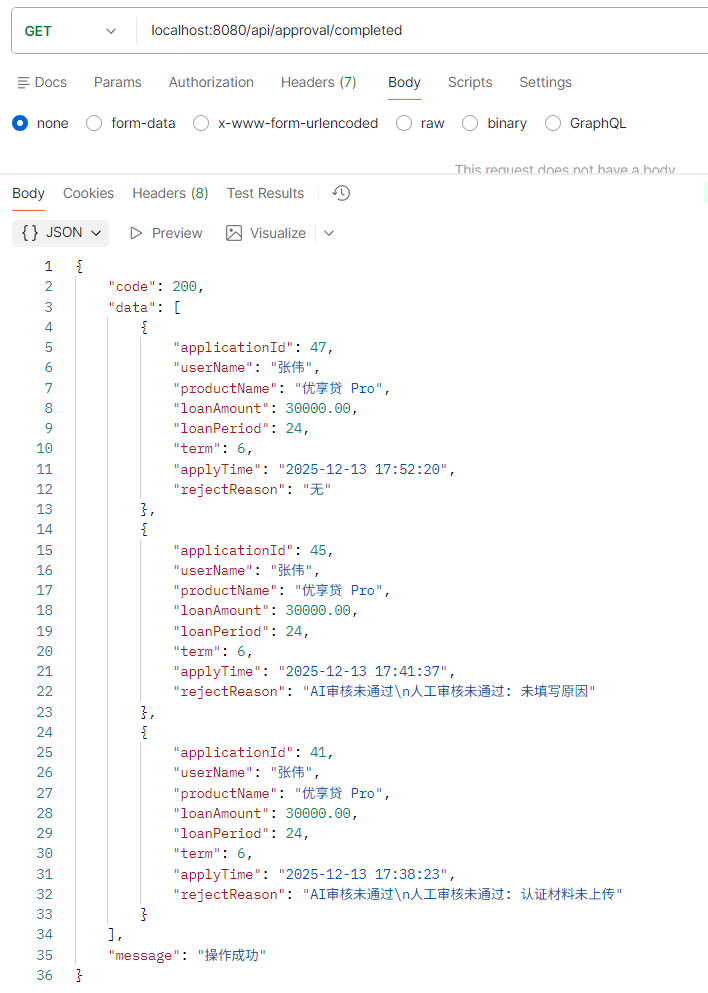
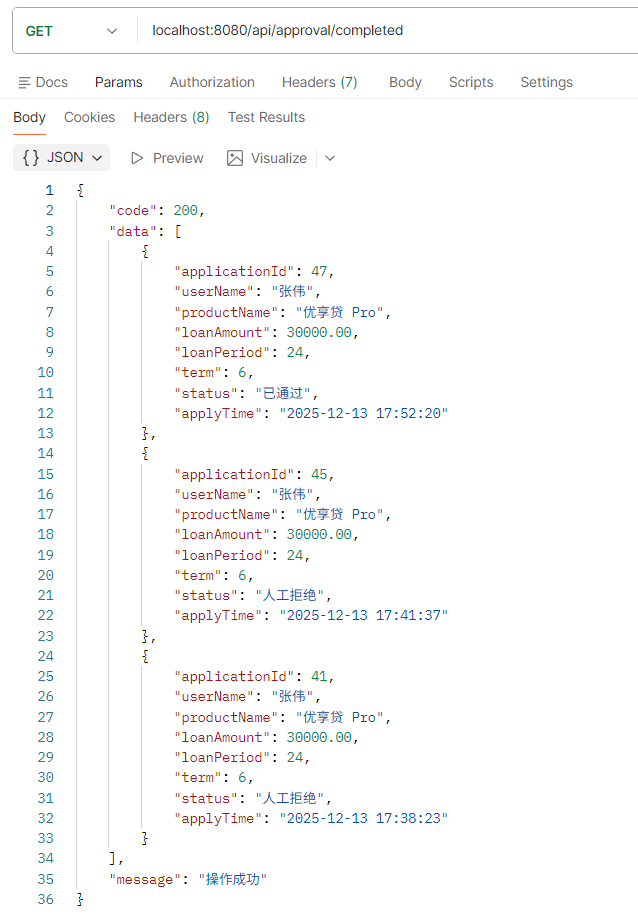
修改已办审核列表返回体

diff --git a/project/backend/personal-loan/src/main/java/com/example/personal_loan/dto/PendingApprovalResponse.java b/project/backend/personal-loan/src/main/java/com/example/personal_loan/dto/PendingApprovalResponse.java
@@ -3,6 +3,7 @@ package com.example.personal_loan.dto;
 import java.math.BigDecimal;
 import java.time.LocalDateTime;
 
+import com.example.personal_loan.enums.ApplicationStatus;
 import com.fasterxml.jackson.annotation.JsonFormat;
 
 import lombok.AllArgsConstructor;
@@ -20,7 +21,7 @@ public class PendingApprovalResponse {
     private BigDecimal loanAmount;
     private Integer loanPeriod;
     private Integer term;
+    private ApplicationStatus status;
     @JsonFormat(pattern = "yyyy-MM-dd HH:mm:ss")
     private LocalDateTime applyTime;
-    private String rejectReason;
 }

diff --git a/project/backend/personal-loan/src/main/java/com/example/personal_loan/mapper/ApplicationMapper.java b/project/backend/personal-loan/src/main/java/com/example/personal_loan/mapper/ApplicationMapper.java
@@ -105,8 +105,8 @@ public interface ApplicationMapper {
         "  la.loan_amount AS loanAmount,",
         "  la.loan_period AS loanPeriod,",
         "  la.term AS term,",
-        "  la.apply_time AS applyTime,",
-        "  la.reject_reason AS rejectReason",
+        "  la.status AS status,",
+        "  la.apply_time AS applyTime",
         "FROM loan_applications la",
         "JOIN users u ON la.user_id = u.id",
         "JOIN loan_products lp ON la.product_id = lp.id",

diff --git a/project/backend/document/接口文档/ManualApprove.md b/project/backend/document/接口文档/ManualApprove.md
@@ -70,8 +70,8 @@
             "loanAmount": 30000.00,
             "loanPeriod": 24,
             "term": 6,
-            "applyTime": "2025-12-13 17:52:20",
-            "rejectReason": "无"
+            "status": "已通过",
+            "applyTime": "2025-12-13 17:52:20"
         },
         {
             "applicationId": 45,
@@ -80,8 +80,8 @@
             "loanAmount": 30000.00,
             "loanPeriod": 24,
             "term": 6,
-            "applyTime": "2025-12-13 17:41:37",
-            "rejectReason": "AI审核未通过\n人工审核未通过: 未填写原因"
+            "status": "人工拒绝",
+            "applyTime": "2025-12-13 17:41:37"
         },
         {
             "applicationId": 41,
@@ -90,8 +90,8 @@
             "loanAmount": 30000.00,
             "loanPeriod": 24,
             "term": 6,
-            "applyTime": "2025-12-13 17:38:23",
-            "rejectReason": "AI审核未通过\n人工审核未通过: 认证材料未上传"
+            "status": "人工拒绝",
+            "applyTime": "2025-12-13 17:38:23"
         }
     ],
     "message": "操作成功"
